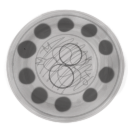
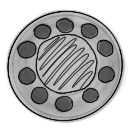
Update Switch sprite and tileset

diff --git a/Scripts/Objects/CountdownSwitch.cs b/Scripts/Objects/CountdownSwitch.cs
@@ -7,8 +7,7 @@ using Godot.Collections;
 public partial class CountdownSwitch : Node2D, IInteractable, IResettable
 {
 	private Label CountdownLabel => this.GetNode<Label>("Countdown");
-	private Node2D Button => this.GetNode<Node2D>("Button");
-	private Node2D ButtonPressed => this.GetNode<Node2D>("ButtonPressed");
+	private AnimatedSprite2D Switch => this.GetNode<AnimatedSprite2D>("Switch");
 	
 	[Export] public Array<NodePath> Targets { get; set; } = new();
 
@@ -27,13 +26,12 @@ public partial class CountdownSwitch : Node2D, IInteractable, IResettable
 	{
 		this.CountdownLabel.Text = this.ticksRemaining.ToString();
 		this.CountdownLabel.Visible = this.active;
-		this.Button.Visible = !this.active;
-		this.ButtonPressed.Visible = this.active;
 	}
 
 	public void Interact()
 	{
 		ToggleSwitches();
+		this.Switch.Play();
 		this.active = true;
 		this.ticksRemaining = this.Countdown;
 	}
@@ -58,6 +56,7 @@ public partial class CountdownSwitch : Node2D, IInteractable, IResettable
 		if (this.ticksRemaining <= 0)
 		{
 			this.Reset();
+			this.Switch.PlayBackwards();
 			ToggleSwitches();
 		}
 	}

diff --git a/Scripts/Objects/LevelGoal.cs b/Scripts/Objects/LevelGoal.cs
@@ -7,6 +7,7 @@ public partial class LevelGoal : Node2D
 	private Node2D Mannhole => this.GetNode<Node2D>("LevelExitManhole");
 	private Node2D Ladder => this.GetNode<Node2D>("LevelExitLadder");
 	private Node2D Pond => this.GetNode<Node2D>("LevelExitPond");
+	private Node2D WoodenDoor => this.GetNode<Node2D>("LevelExitWoodenDoor");
 	
 	[Export]
 	public LevelExitStyle ExitStyle { get; set; } = LevelExitStyle.Mannhole;
@@ -35,5 +36,6 @@ public partial class LevelGoal : Node2D
 		this.Mannhole.Visible = this.ExitStyle == LevelExitStyle.Mannhole;
 		this.Ladder.Visible = this.ExitStyle == LevelExitStyle.Ladder;
 		this.Pond.Visible = this.ExitStyle == LevelExitStyle.Pond;
+		this.WoodenDoor.Visible = this.ExitStyle == LevelExitStyle.WoodenDoor;
 	}
 }

diff --git a/Scripts/Objects/Switch.cs b/Scripts/Objects/Switch.cs
@@ -6,9 +6,11 @@ using Godot.Collections;
 public partial class Switch : Node2D, IInteractable
 {
 	[Export] public Array<NodePath> Targets { get; set; } = new();
+	private AnimatedSprite2D Sprite => this.GetNode<AnimatedSprite2D>("Switch");
 	
 	public void Interact()
 	{
+		this.Sprite.Play();
 		foreach (NodePath nodePath in Targets)
 		{
 			ISwitchable switchable = GetNode<ISwitchable>(nodePath);

diff --git a/Scripts/Objects/LevelExitStyle.cs b/Scripts/Objects/LevelExitStyle.cs
@@ -5,4 +5,5 @@ public enum LevelExitStyle
 	Mannhole,
 	Ladder,
 	Pond,
+	WoodenDoor,
 }
